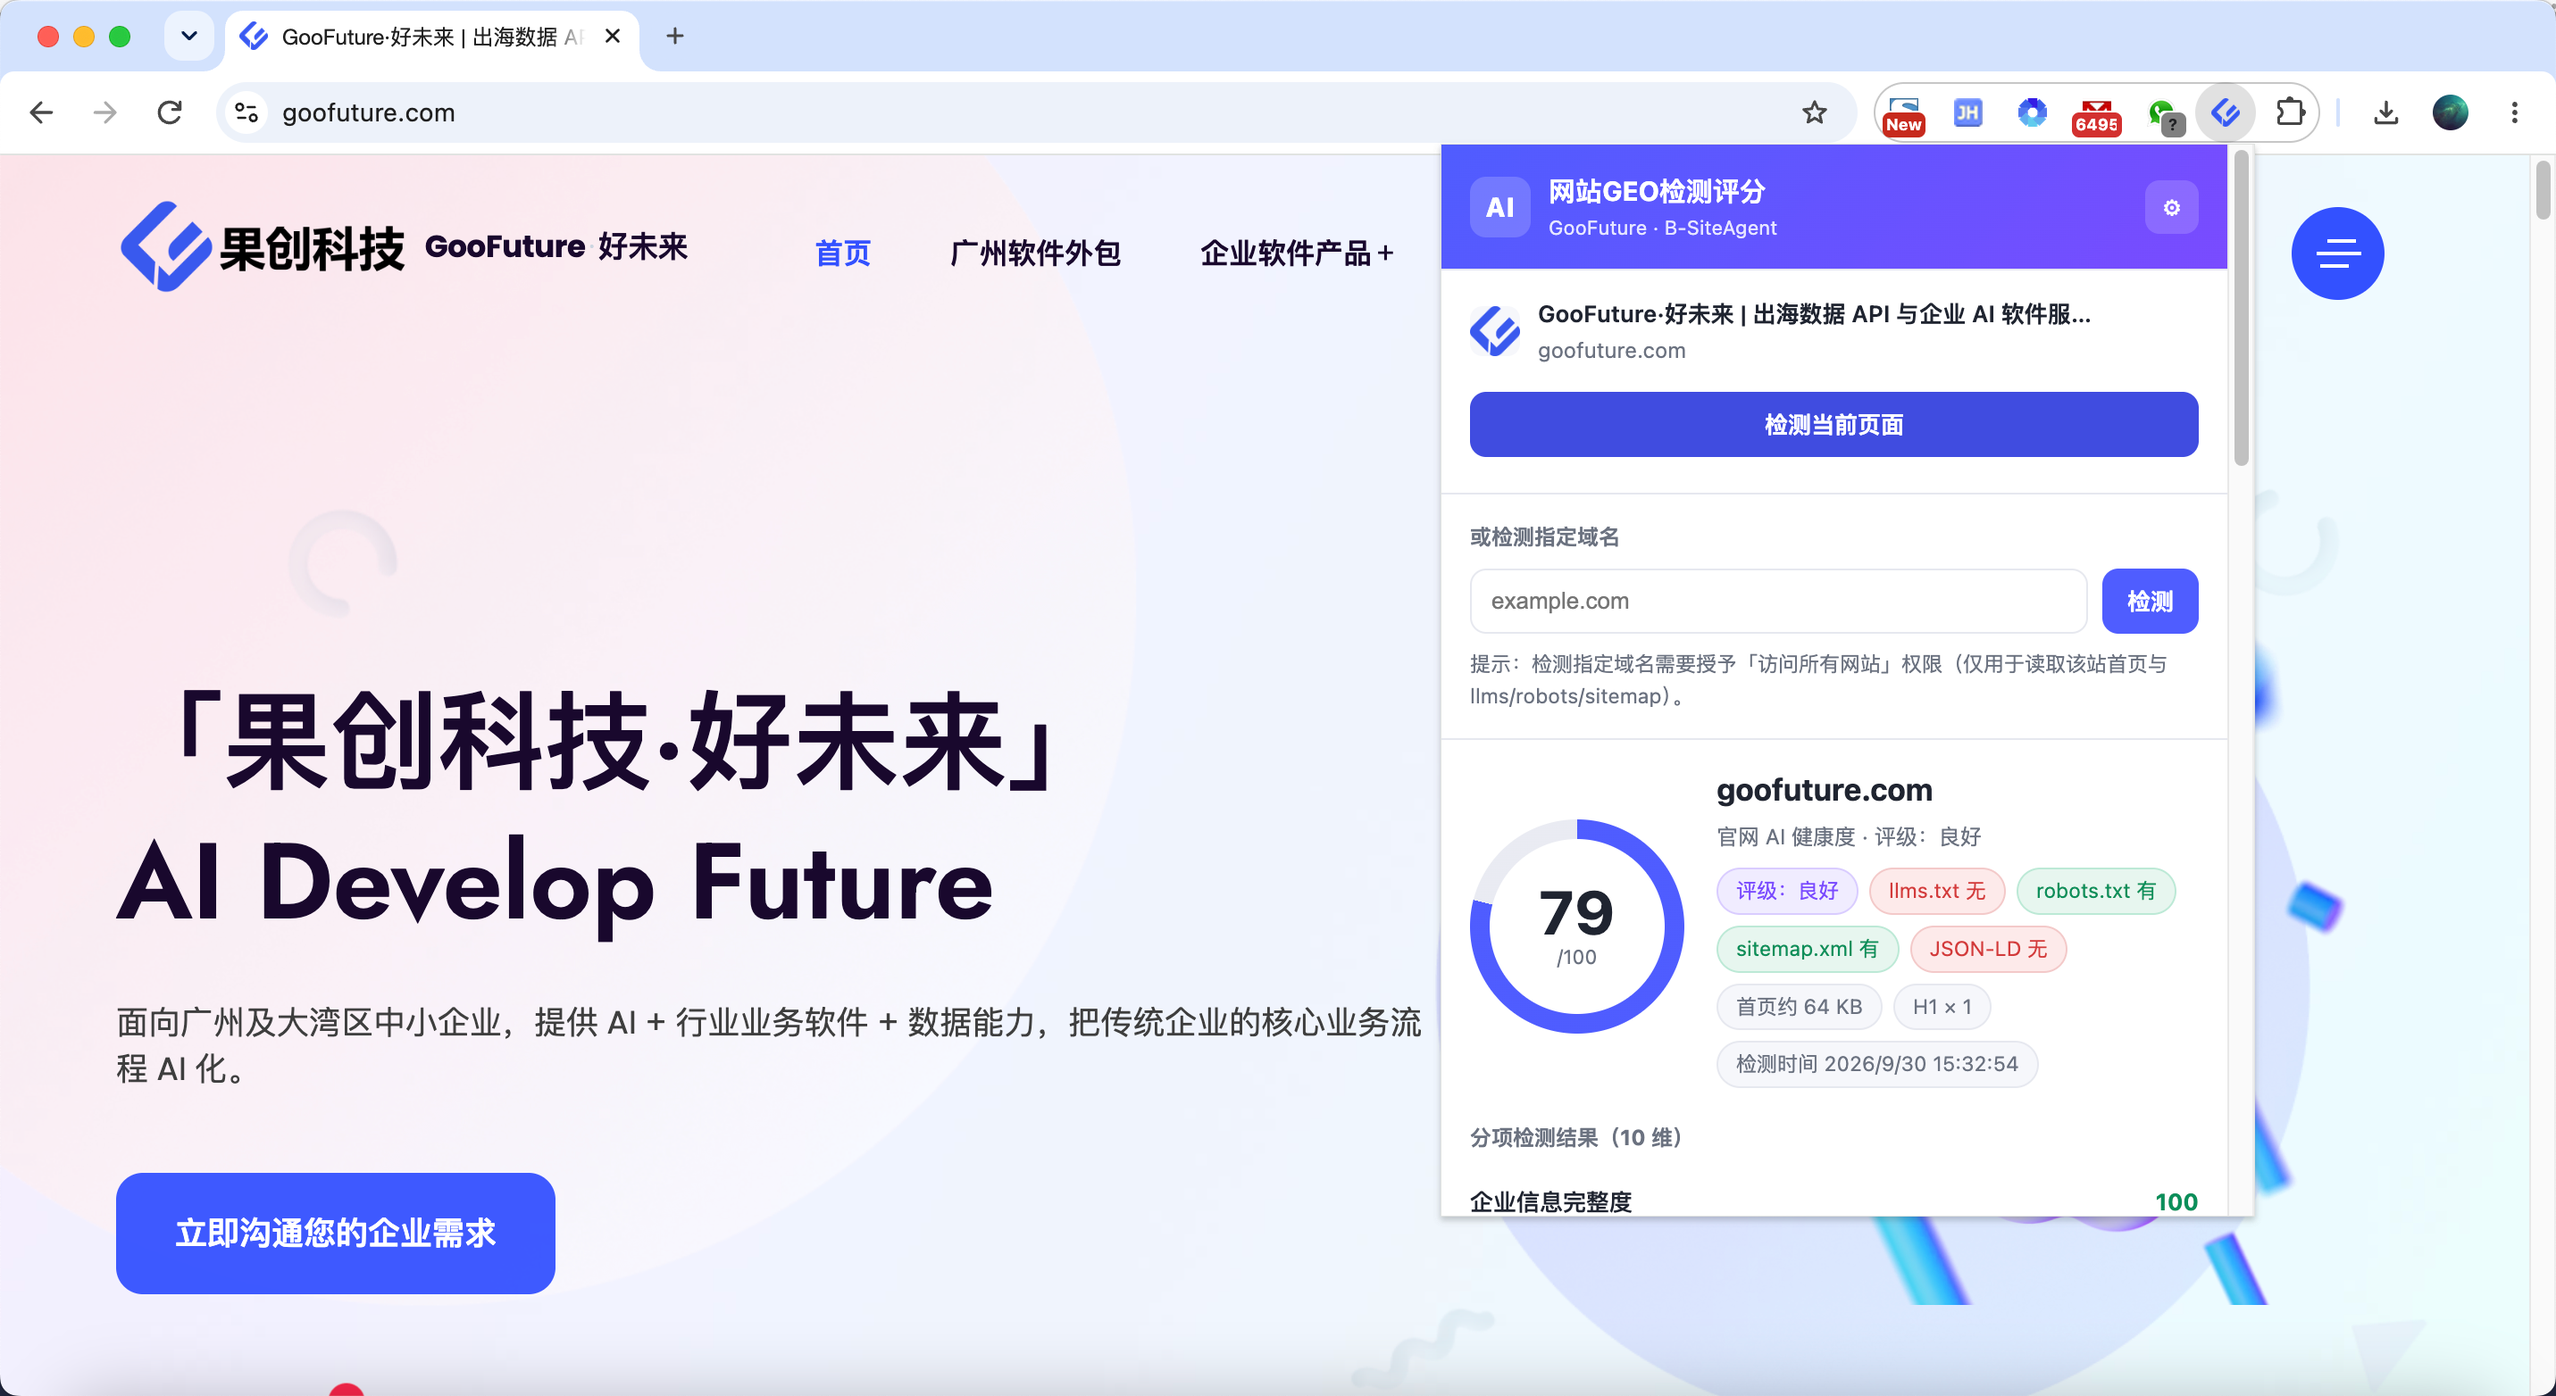
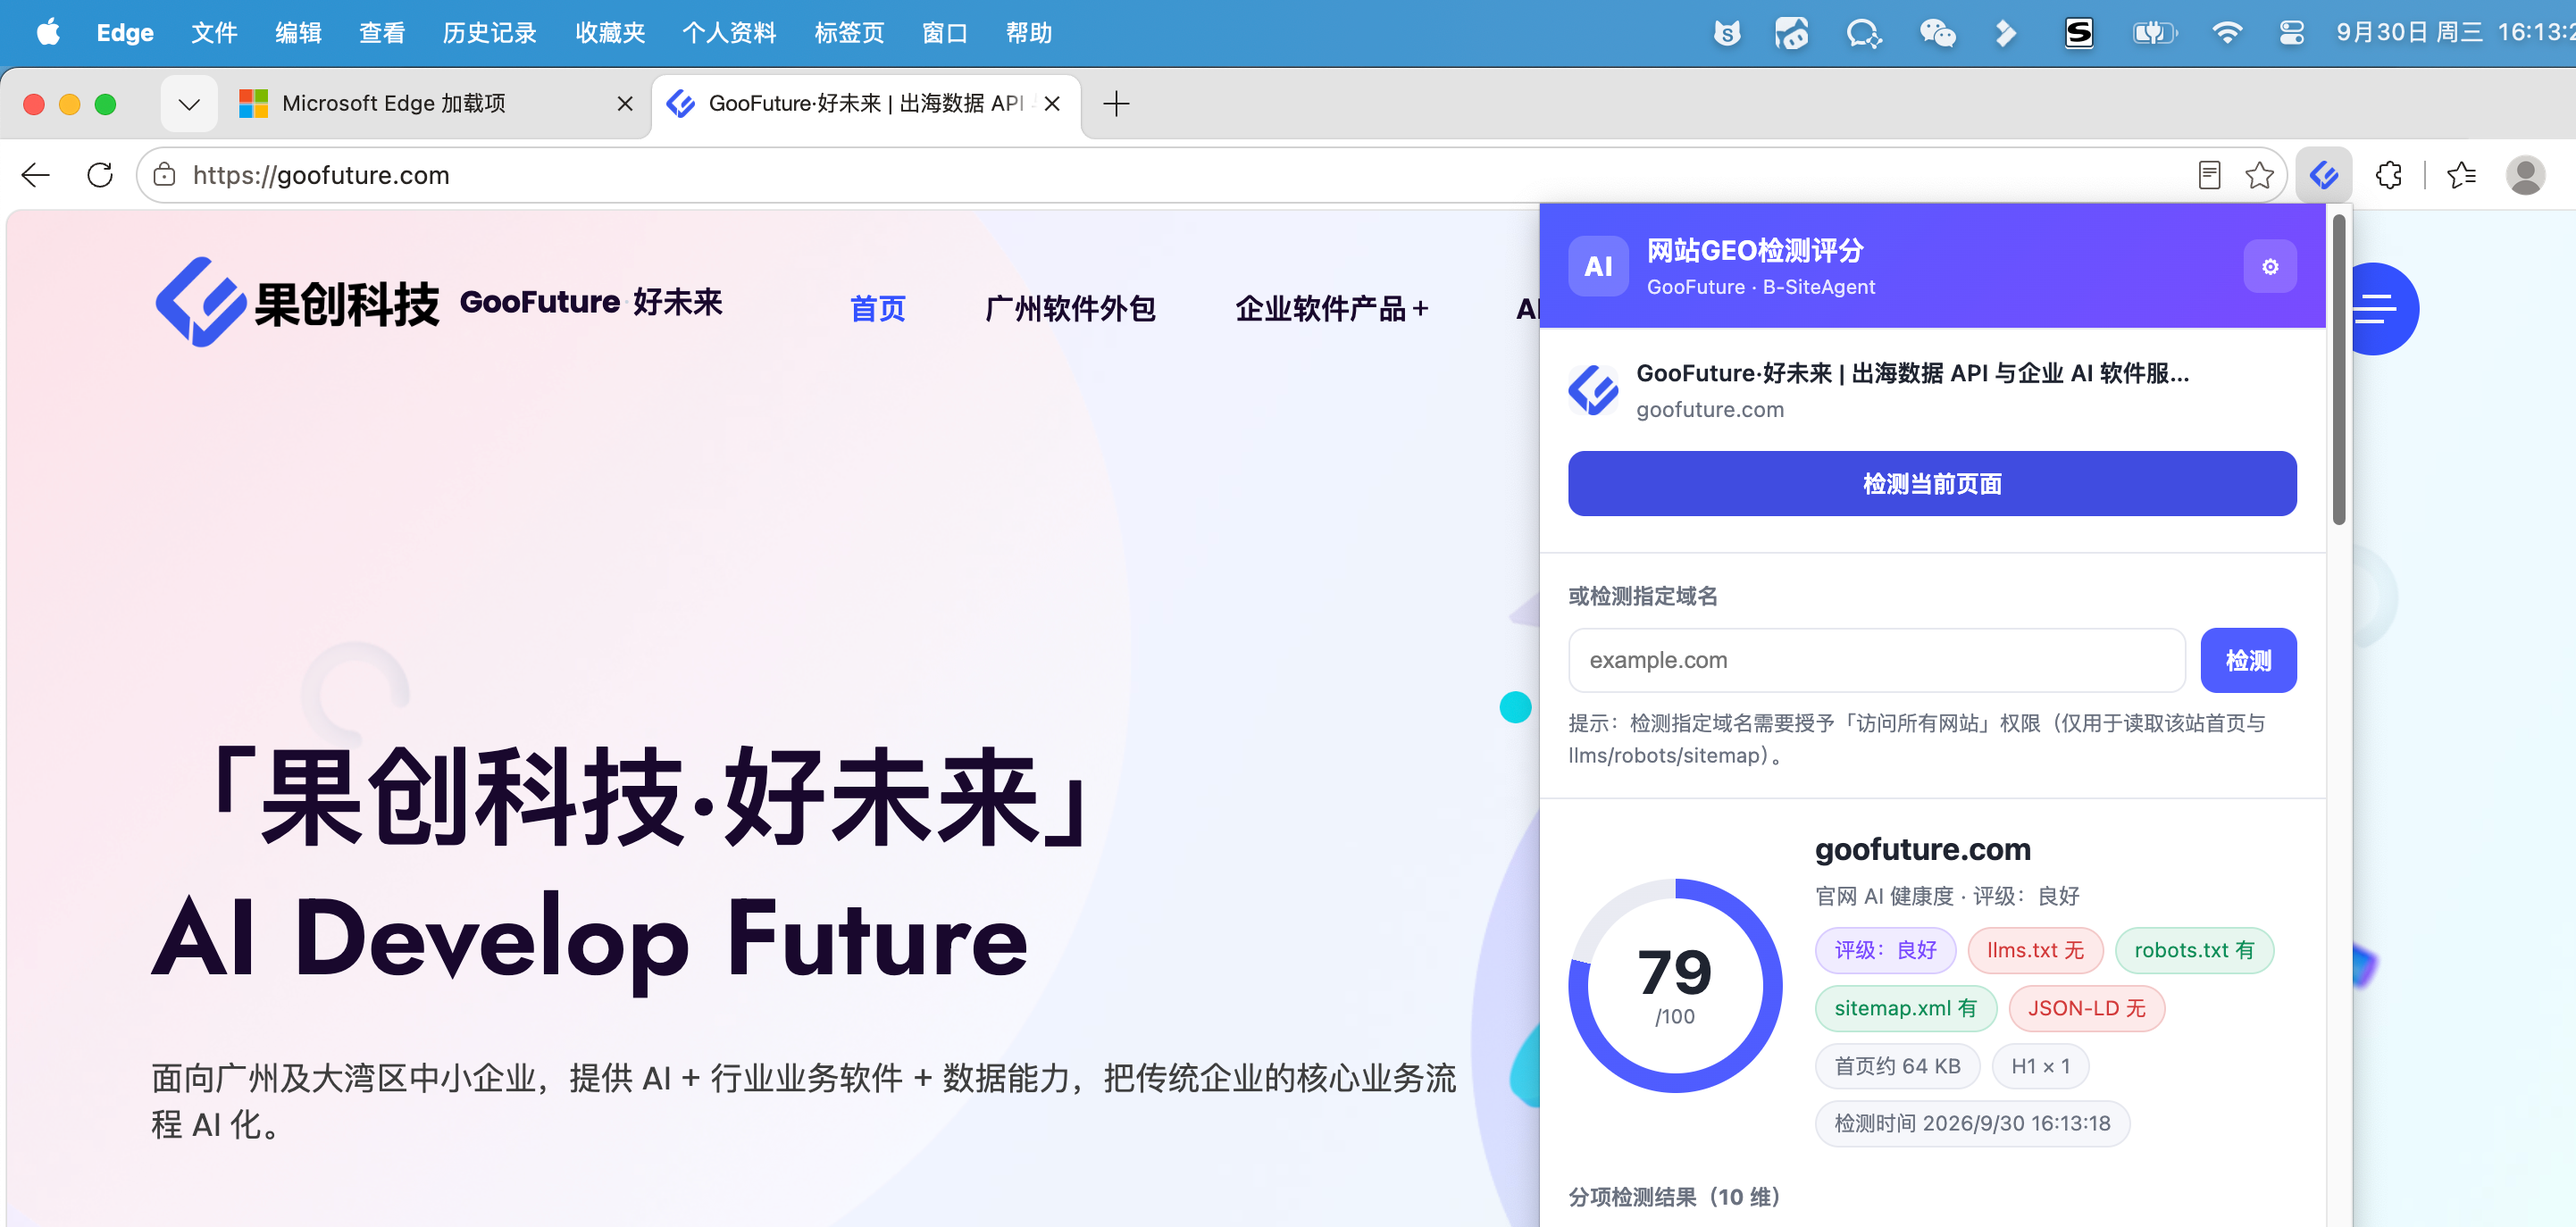
up

diff --git a/README.md b/README.md
@@ -12,7 +12,8 @@
 
 ## 插件效果
 
-> 截图待补充：加载扩展后打开任意企业官网，点击工具栏图标即可检测。
+> 加载扩展后打开任意企业官网，点击工具栏图标即可检测。  
+![](images/goofuture-usage.png)  
 
 ## 它能做什么
 
